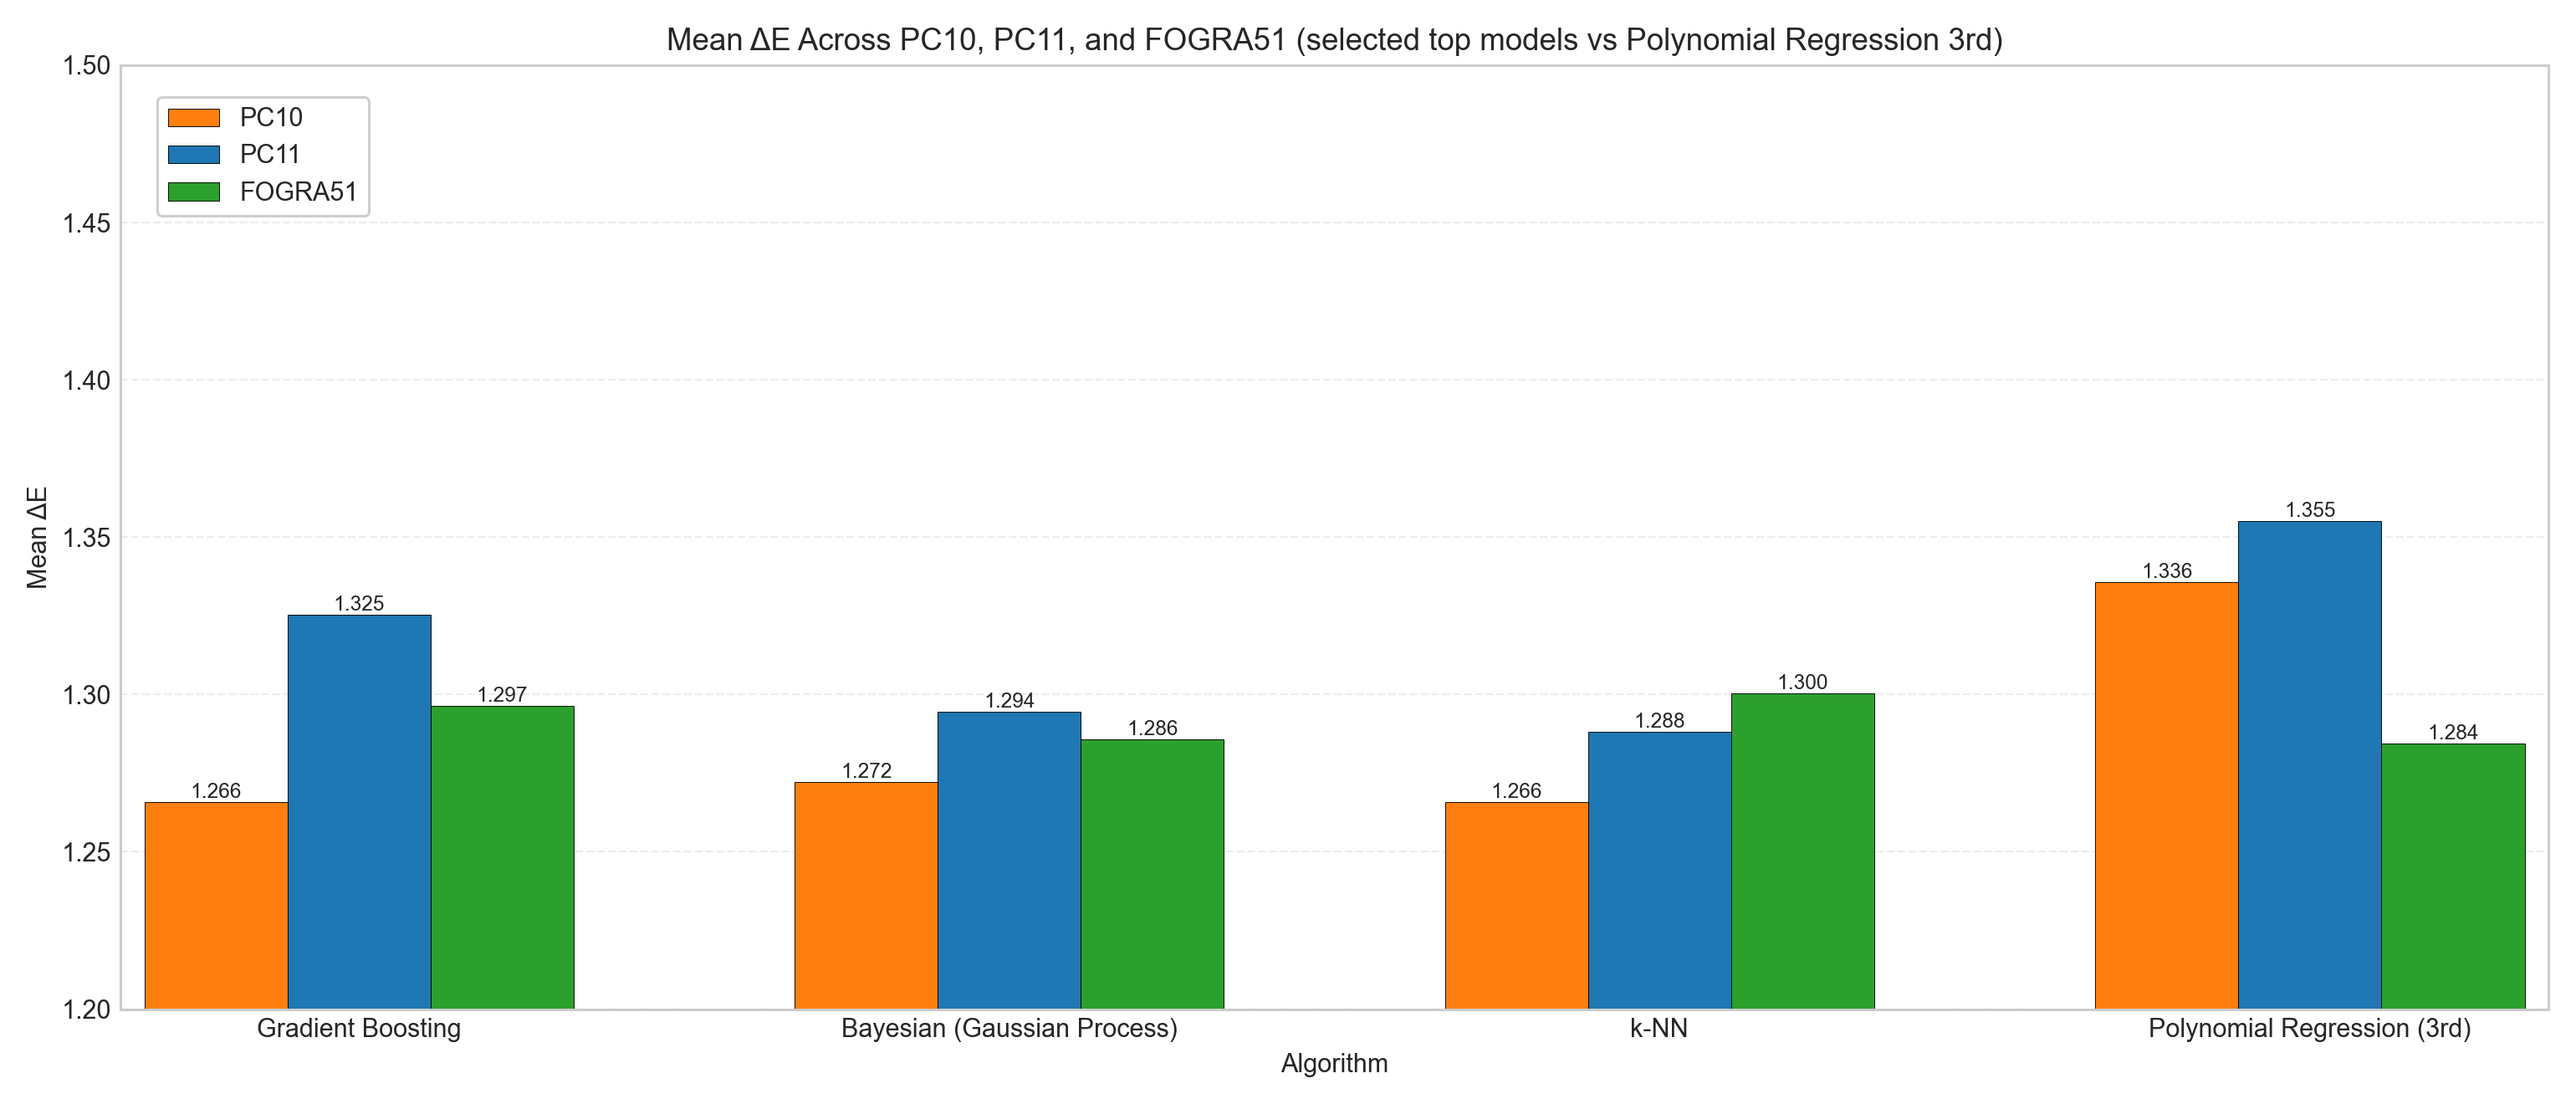
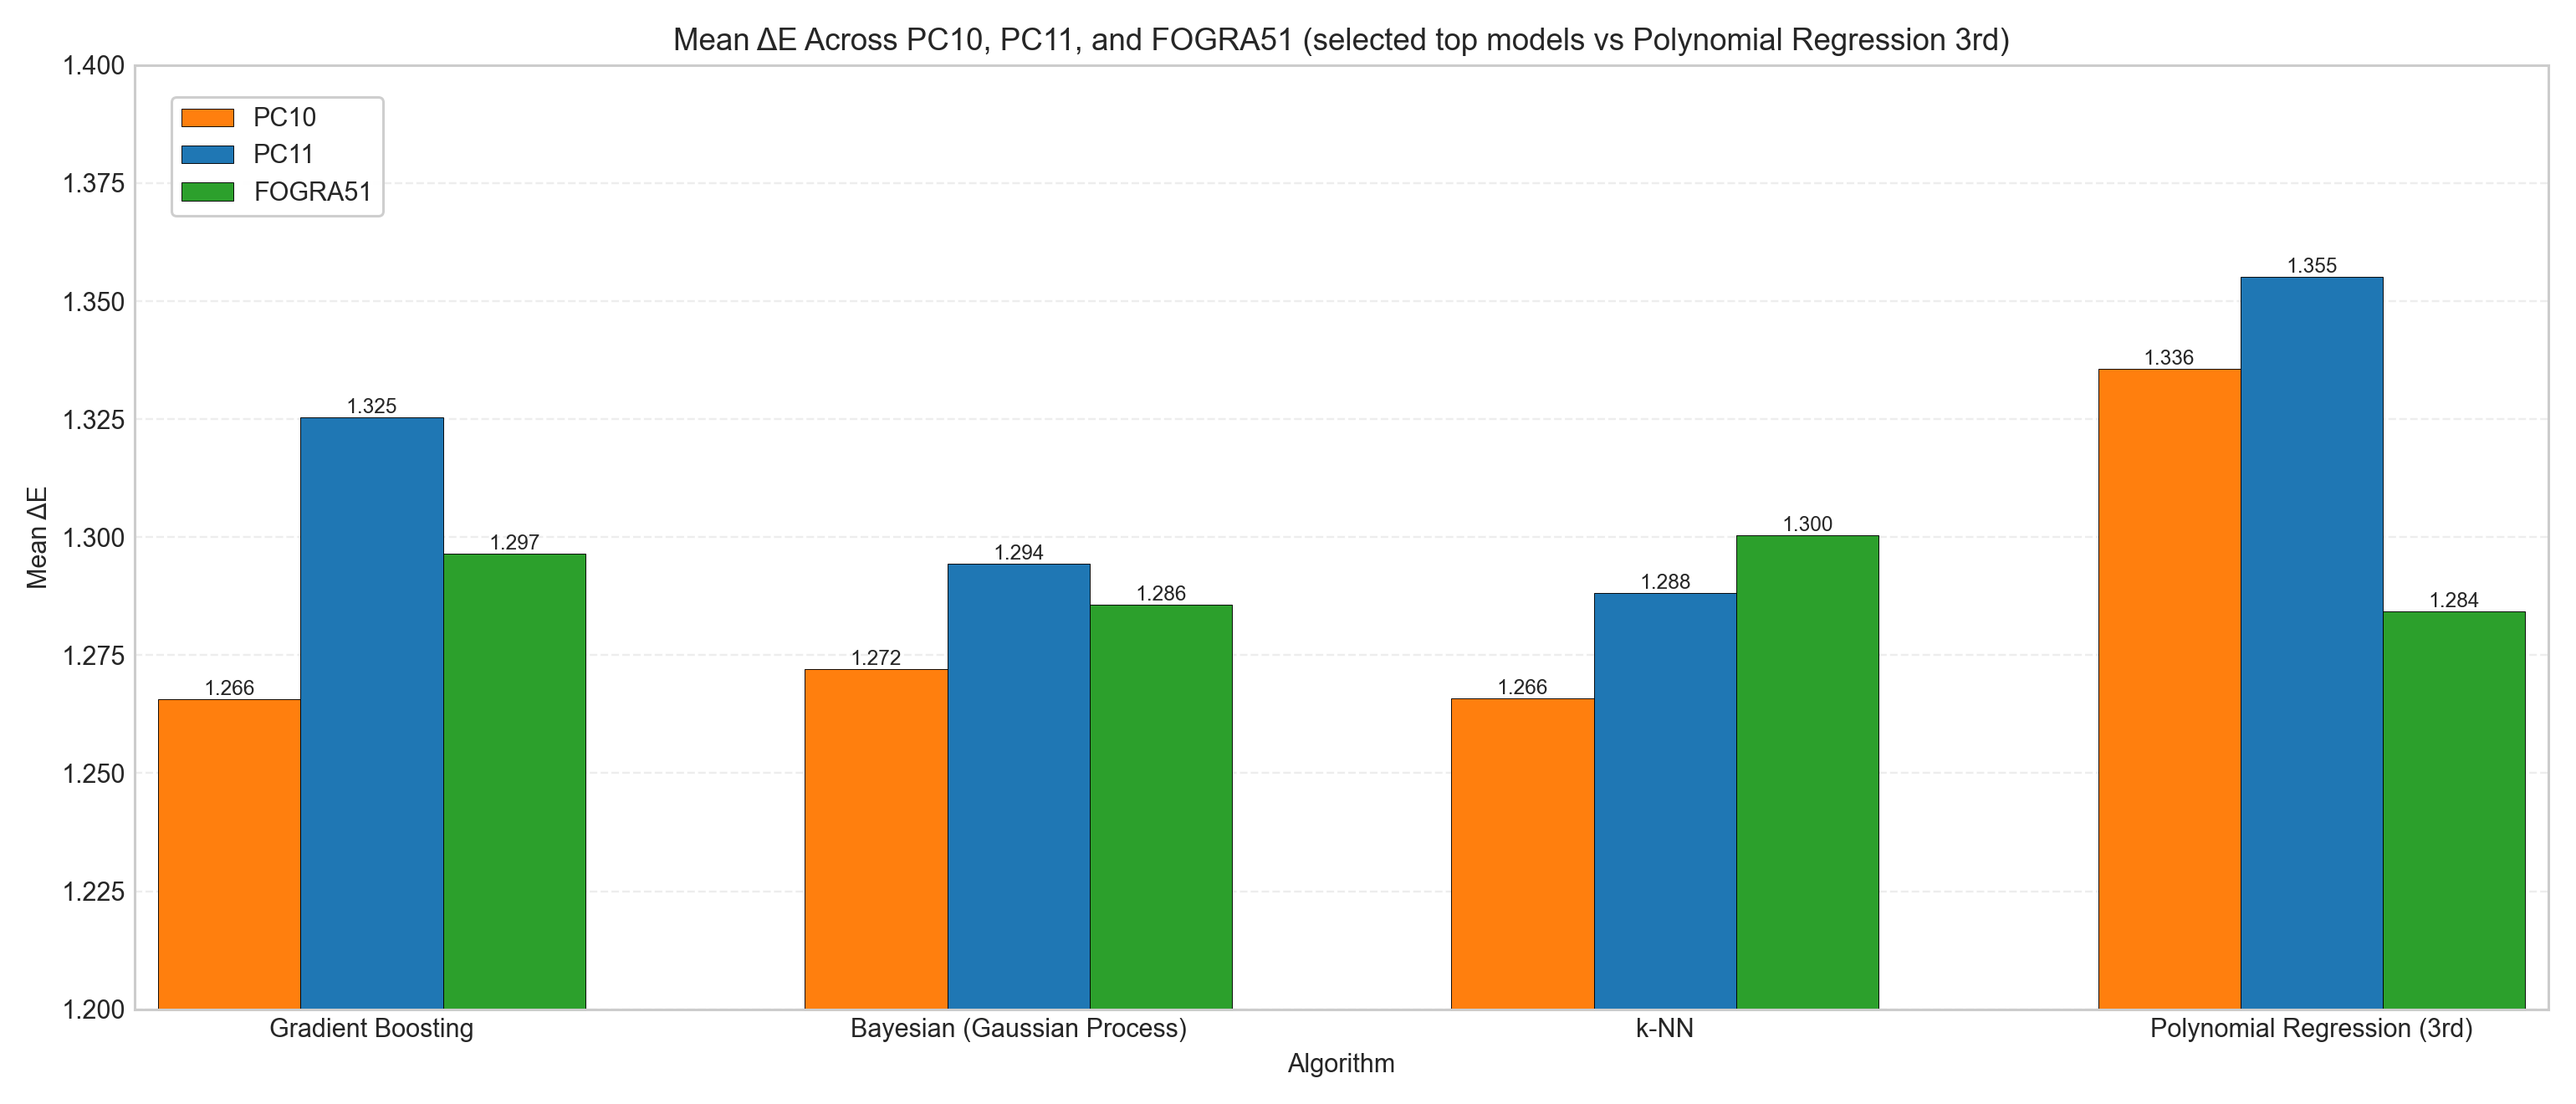
Figure 2: set default y-axis to 1.2–1.4 and regenerate with --aggregate best.

diff --git a/anlysis/figure2_selected_top_models.py b/anlysis/figure2_selected_top_models.py
@@ -161,7 +161,7 @@ def main():
     import argparse
     parser = argparse.ArgumentParser(description='Generate Figure 2: selected top models vs polynomial regression (3rd).')
     parser.add_argument('--ylim-min', type=float, default=1.2, help='Y-axis lower bound (default 1.2).')
-    parser.add_argument('--ylim-max', type=float, default=1.5, help='Y-axis upper bound (default 1.5).')
+    parser.add_argument('--ylim-max', type=float, default=1.4, help='Y-axis upper bound (default 1.4).')
     parser.add_argument('--no-labels', action='store_true', help='Disable bar value labels.')
     parser.add_argument('--poly-degree', type=int, default=3, help='Polynomial degree to compare (default 3).')
     parser.add_argument('--error-bars', action='store_true', help='Add error bars (std across runs in append files).')
